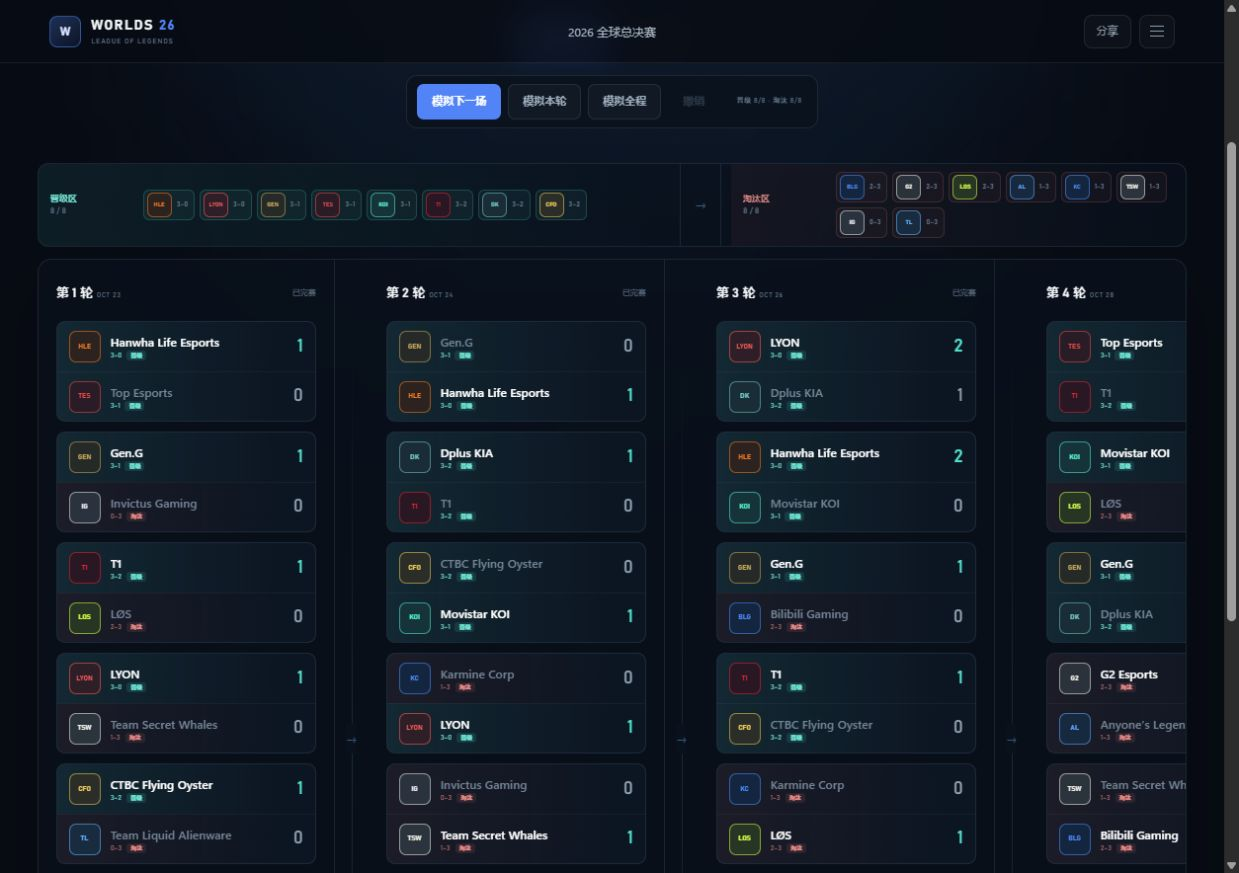
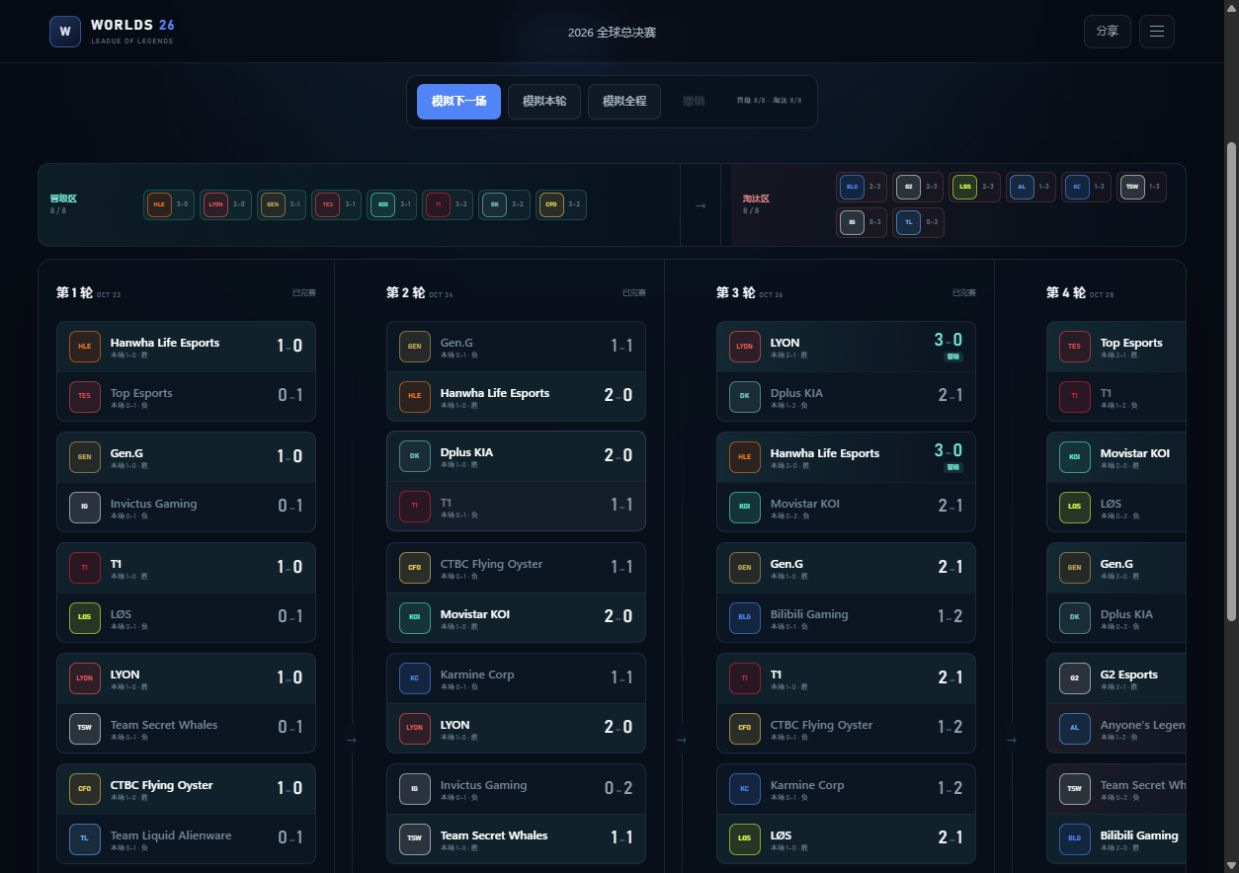
Prioritize per-round Swiss records

diff --git a/app.js b/app.js
@@ -116,7 +116,7 @@
     }
   }
 
-  function getRecords() {
+  function getRecords(upToRound = Infinity) {
     const records = new Map(
       TEAM_IDS.map((id) => [
         id,
@@ -131,7 +131,7 @@
     );
 
     state.matches
-      .filter((match) => match.status === "final")
+      .filter((match) => match.status === "final" && match.round <= upToRound)
       .sort((a, b) => a.round - b.round || a.matchNo - b.matchNo)
       .forEach((match) => {
         const winner = winnerOf(match);
@@ -589,11 +589,15 @@
     return `<span class="crest ${small ? "small" : ""}" style="--team-color:${team.color}" aria-hidden="true">${team.short}</span>`;
   }
 
-  function teamTournamentState(record) {
+  function teamTournamentState(record, match, currentRound) {
     if (record.wins >= 3) return { className: "is-qualified", label: "晋级" };
     if (record.losses >= 3) return { className: "is-eliminated", label: "淘汰" };
-    if (record.wins === 2) return { className: "is-match-point", label: "赛点" };
-    if (record.losses === 2) return { className: "is-danger", label: "生死战" };
+    if (match.round === currentRound && record.wins === 2) {
+      return { className: "is-match-point", label: "赛点" };
+    }
+    if (match.round === currentRound && record.losses === 2) {
+      return { className: "is-danger", label: "生死战" };
+    }
     return { className: "is-active", label: "" };
   }
 
@@ -613,26 +617,28 @@
     const teamMarkup = (teamId, score, isWinner) => {
       const team = TEAMS[teamId];
       const record = records.get(teamId);
-      const tournamentState = teamTournamentState(record);
+      const tournamentState = teamTournamentState(record, match, currentRound);
       const teamClass = isFinal
         ? isWinner
           ? "is-winner"
           : "is-loser"
         : "";
-      const scoreMarkup = isFinal
-        ? `<span class="team-score">${score}</span>`
-        : `<span class="pick-hint">选择</span>`;
+      const ownScore = teamId === match.a ? match.scoreA : match.scoreB;
+      const otherScore = teamId === match.a ? match.scoreB : match.scoreA;
+      const matchDetail = isFinal
+        ? `本场 ${ownScore}–${otherScore} · ${isWinner ? "胜" : "负"}`
+        : "本场待赛";
       return `
         <button class="team-button ${teamClass} ${tournamentState.className}" type="button" data-match-id="${match.id}" data-team-id="${teamId}" aria-label="选择 ${team.name} 获胜，当前战绩 ${record.wins} 胜 ${record.losses} 负${tournamentState.label ? `，${tournamentState.label}` : ""}">
           ${crestMarkup(teamId)}
           <span class="team-name-wrap">
             <span class="team-name">${team.name}</span>
-            <span class="team-region">
-              ${record.wins}–${record.losses}
-              ${tournamentState.label ? `<b>${tournamentState.label}</b>` : ""}
-            </span>
+            <span class="team-region">${matchDetail}</span>
           </span>
-          ${scoreMarkup}
+          <span class="team-result">
+            <span class="team-record">${record.wins}<i>–</i>${record.losses}</span>
+            ${tournamentState.label ? `<b>${tournamentState.label}</b>` : ""}
+          </span>
         </button>
       `;
     };
@@ -651,10 +657,10 @@
 
   function renderRounds() {
     const currentRound = currentSwissRound();
-    const records = getRecords();
     const columns = [];
 
     for (let round = 1; round <= MAX_SWISS_ROUNDS; round += 1) {
+      const records = getRecords(round);
       const matches = state.matches
         .filter((match) => match.round === round)
         .sort((a, b) => a.matchNo - b.matchNo);

diff --git a/styles.css b/styles.css
@@ -724,69 +724,74 @@ main {
   line-height: 1.35;
 }
 
-.team-region b {
+.team-result {
+  display: flex;
+  min-width: 38px;
+  flex-direction: column;
+  gap: 1px;
+  align-items: flex-end;
+}
+
+.team-record {
+  color: #94a4b2;
+  font-family: var(--display);
+  font-size: 18px;
+  line-height: 1.05;
+  letter-spacing: 0.02em;
+}
+
+.team-record i {
+  margin: 0 1px;
+  color: #52677a;
+  font-size: 12px;
+  font-style: normal;
+}
+
+.team-result b {
   padding: 1px 4px;
   border-radius: 3px;
   font-size: 6px;
   font-weight: 600;
 }
 
-.team-button.is-qualified .team-region {
-  color: #66cdbf;
+.team-button.is-winner .team-record {
+  color: #f3f7f8;
 }
 
-.team-button.is-qualified .team-region b {
+.team-button.is-qualified .team-record {
+  color: #70ead7;
+}
+
+.team-button.is-qualified .team-result b {
   background: rgba(82, 228, 208, 0.12);
   color: #70ead7;
 }
 
-.team-button.is-eliminated .team-region {
-  color: #b76d6c;
+.team-button.is-eliminated .team-record {
+  color: #ed8c89;
 }
 
-.team-button.is-eliminated .team-region b {
+.team-button.is-eliminated .team-result b {
   background: rgba(237, 118, 116, 0.11);
   color: #ed8c89;
 }
 
-.team-button.is-match-point .team-region {
-  color: #b39a5f;
+.team-button.is-match-point .team-record {
+  color: var(--gold);
 }
 
-.team-button.is-match-point .team-region b {
+.team-button.is-match-point .team-result b {
   background: rgba(240, 196, 93, 0.1);
   color: var(--gold);
 }
 
-.team-button.is-danger .team-region {
-  color: #a77777;
+.team-button.is-danger .team-record {
+  color: #c98482;
 }
 
-.team-button.is-danger .team-region b {
+.team-button.is-danger .team-result b {
   background: rgba(237, 118, 116, 0.07);
   color: #c27c7a;
-}
-
-.team-score {
-  min-width: 18px;
-  color: #8fa0af;
-  font-family: var(--display);
-  font-size: 18px;
-  text-align: right;
-}
-
-.team-button.is-winner .team-score {
-  color: var(--cyan);
-}
-
-.pick-hint {
-  color: transparent;
-  font-size: 8px;
-  transition: color 120ms ease;
-}
-
-.match-card:hover .pick-hint {
-  color: var(--blue);
 }
 
 .round-empty {

diff --git a/index.html b/index.html
@@ -8,7 +8,7 @@
   <title>Worlds 2026 · 赛事推演器</title>
   <link rel="icon" href="assets/icon.svg" type="image/svg+xml">
   <link rel="manifest" href="manifest.webmanifest">
-  <link rel="stylesheet" href="styles.css?v=20261024-10">
+  <link rel="stylesheet" href="styles.css?v=20261024-11">
 </head>
 <body>
   <div class="page-glow" aria-hidden="true"></div>
@@ -134,7 +134,7 @@
   <div class="toast" id="toast" role="status" aria-live="polite"></div>
   <input type="file" id="importInput" accept="application/json,.json" hidden>
 
-  <script src="data.js?v=20261024-10"></script>
-  <script src="app.js?v=20261024-10"></script>
+  <script src="data.js?v=20261024-11"></script>
+  <script src="app.js?v=20261024-11"></script>
 </body>
 </html>

diff --git a/sw.js b/sw.js
@@ -1,10 +1,10 @@
-const CACHE_NAME = "worlds-lab-2026-v12";
+const CACHE_NAME = "worlds-lab-2026-v13";
 const APP_SHELL = [
   "./",
   "./index.html",
-  "./styles.css?v=20261024-10",
-  "./data.js?v=20261024-10",
-  "./app.js?v=20261024-10",
+  "./styles.css?v=20261024-11",
+  "./data.js?v=20261024-11",
+  "./app.js?v=20261024-11",
   "./manifest.webmanifest",
   "./assets/icon.svg"
 ];
